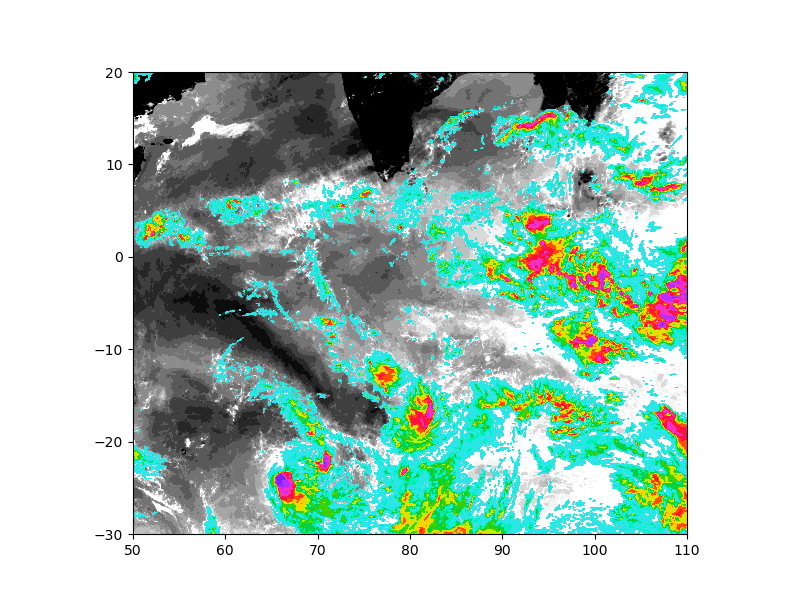
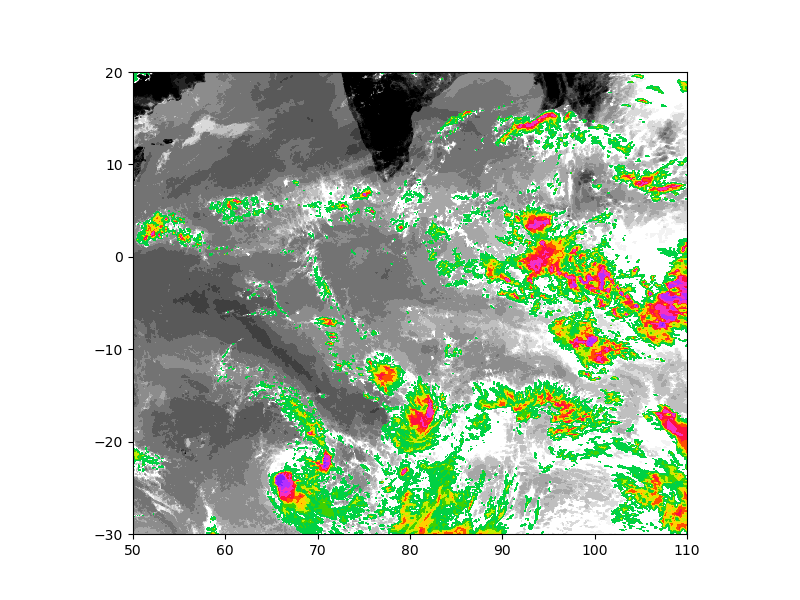
coloring

diff --git a/examine_satellite_data/plot_seviri_windowbt.py b/examine_satellite_data/plot_seviri_windowbt.py
@@ -42,13 +42,13 @@ def plot_windowbt( lon2d, lat2d, bt2d, ax ):
 
   # Plot out clr BTs
   clr_bts = bt2d*1.
-  clr_bts[ bt2d < 290 ] = np.nan
-  cnf_clr = ax.contourf( lon2d, lat2d, clr_bts, np.linspace(290,300,11),
+  clr_bts[ bt2d < 285 ] = np.nan
+  cnf_clr = ax.contourf( lon2d, lat2d, clr_bts, np.linspace(285,305,11),
                          cmap = 'binary', extend='max')
 
   # Plot out cld BTs
   cld_bts = bt2d*1.
-  cld_bts[ bt2d > 280 ] = np.nan
+  cld_bts[ bt2d > 264 ] = np.nan
   cnf_cld = ax.contourf( lon2d, lat2d, cld_bts, np.linspace(200,280,11),
                          cmap = cloud_cmap, extend='min')
 
